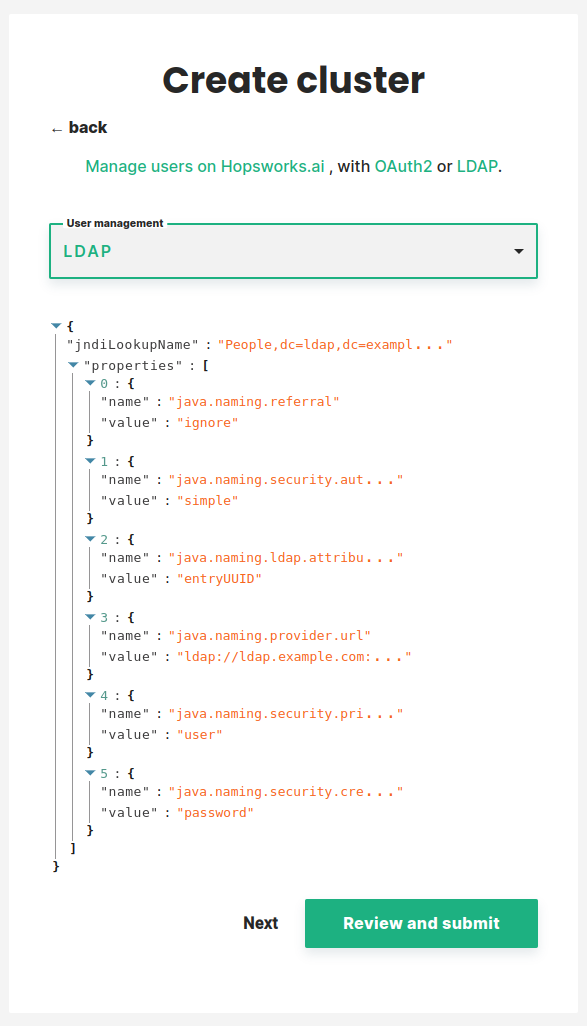
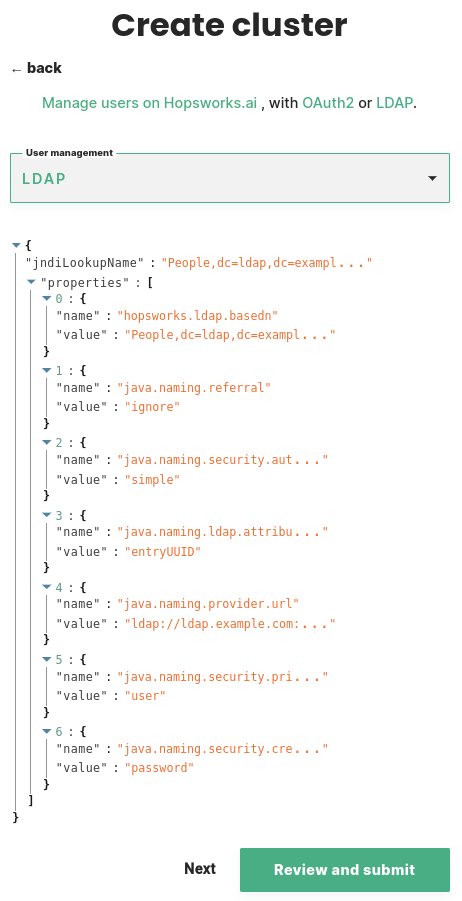
[CLOUD-237] Update documentation as per HWORKS-301

diff --git a/docs/setup_installation/common/sso/ldap.md b/docs/setup_installation/common/sso/ldap.md
@@ -15,6 +15,7 @@ The JNDI resource will communicate with your LDAP server to perform the authenti
 </p>
 
 - _jndilookupname_: should contain the LDAP domain.
+- _hopsworks.ldap.basedn_: the LDAP domain, it should be the same as _jndilookupname_
 - _java.naming.provider.url_: url of your LDAP server with port.
 - _java.naming.ldap.attributes.binary_: is the binary unique identifier that will be used in subsequent logins to identify the user.
 - _java.naming.security.authentication_: how to authenticate to the LDAP server.

diff --git a/docs/admin/ldap/configure-server.md b/docs/admin/ldap/configure-server.md
@@ -53,6 +53,7 @@ asadmin create-jndi-resource \
  --factoryclass com.sun.jndi.ldap.LdapCtxFactory \
  --jndilookupname dc\=hopsworks\,dc\=ai \
  --property java.naming.provider.url=ldap\\://193\.10\.66\.104\\:1389:\
+ hopsworks.ldap.basedn=dc\\\=hopsworks\,dc\\\=ai:\
  java.naming.ldap.attributes.binary=entryUUID:\
  java.naming.security.authentication=simple:\
  java.naming.security.principal=<username>:\
